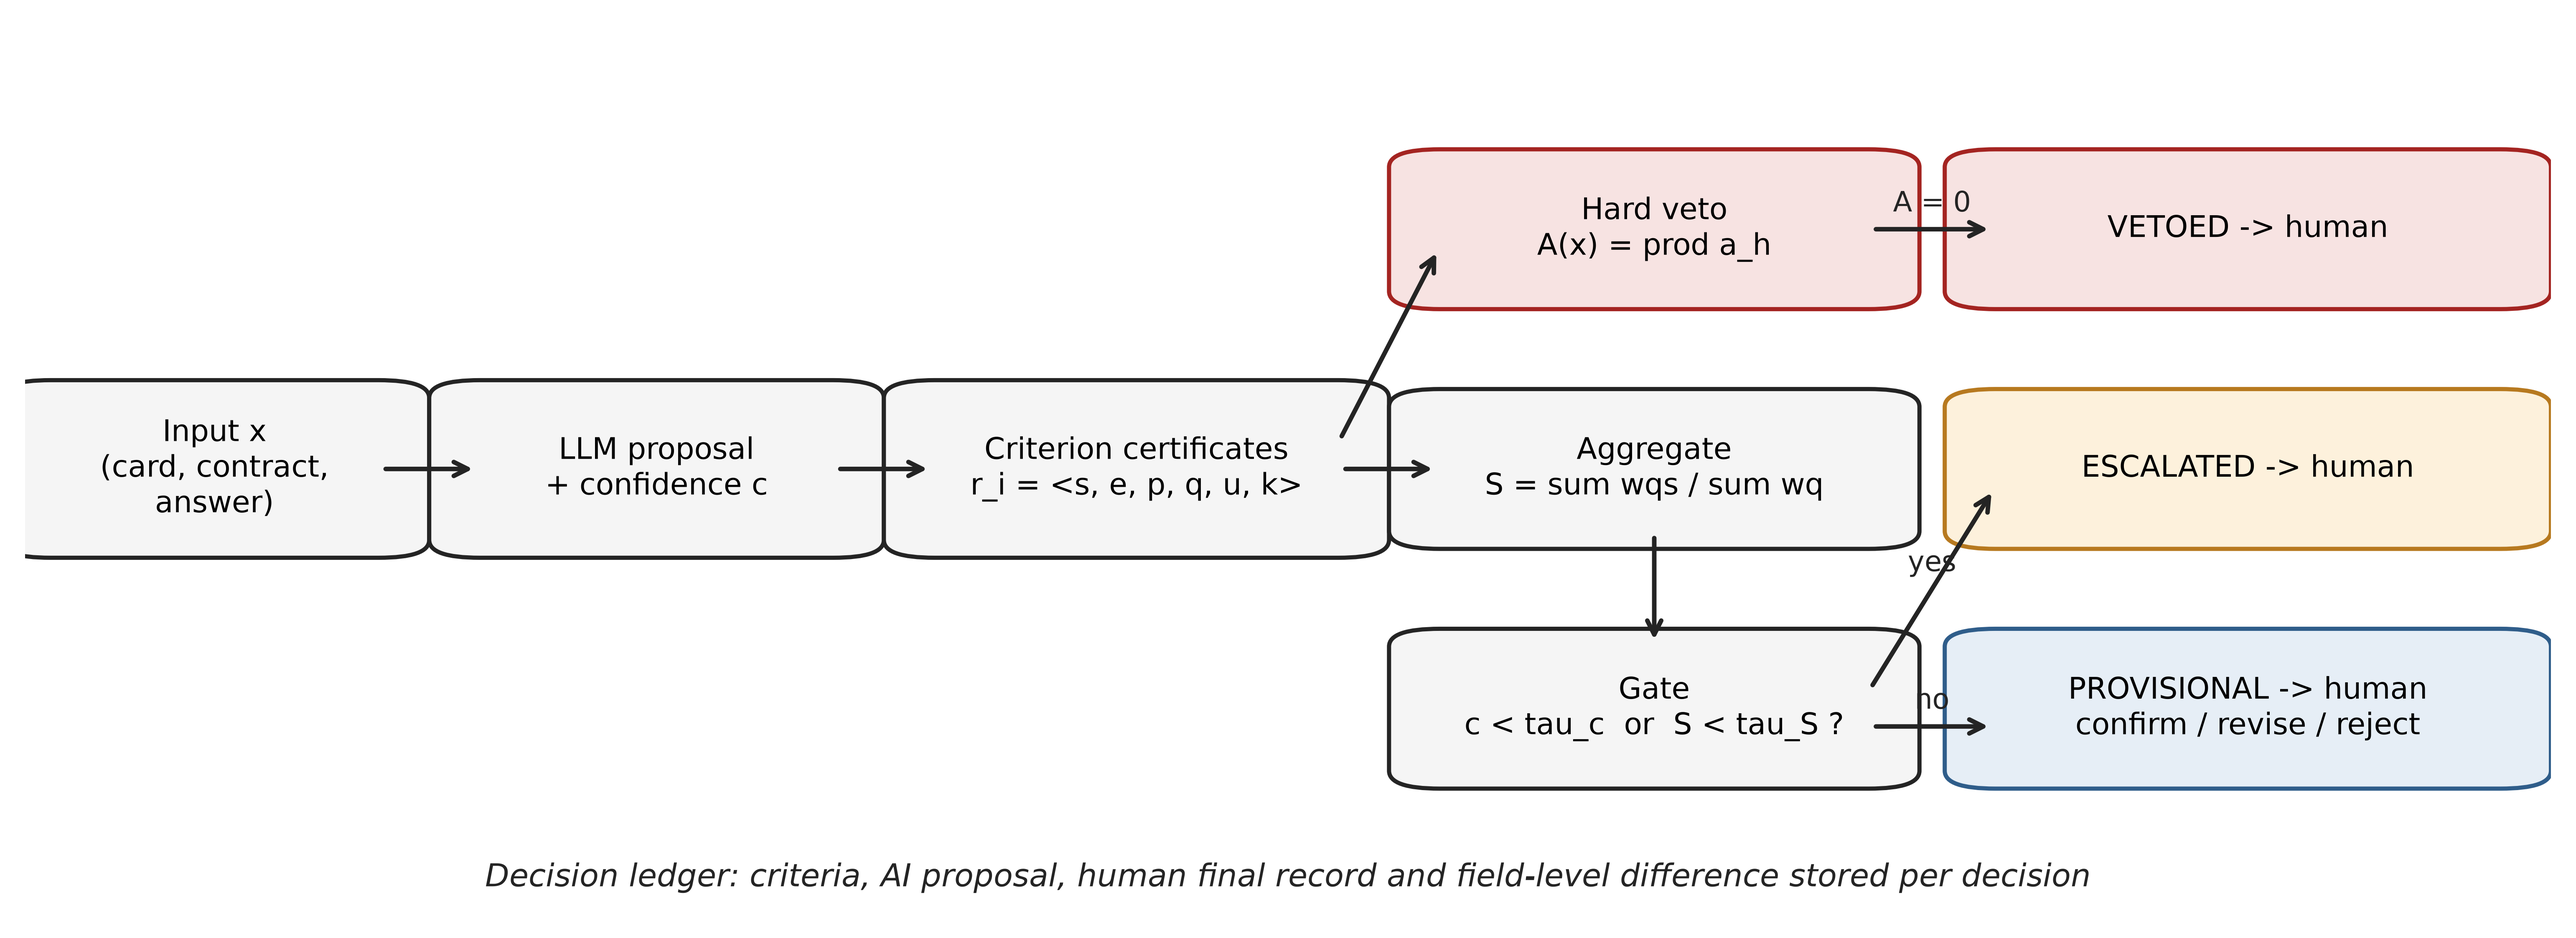
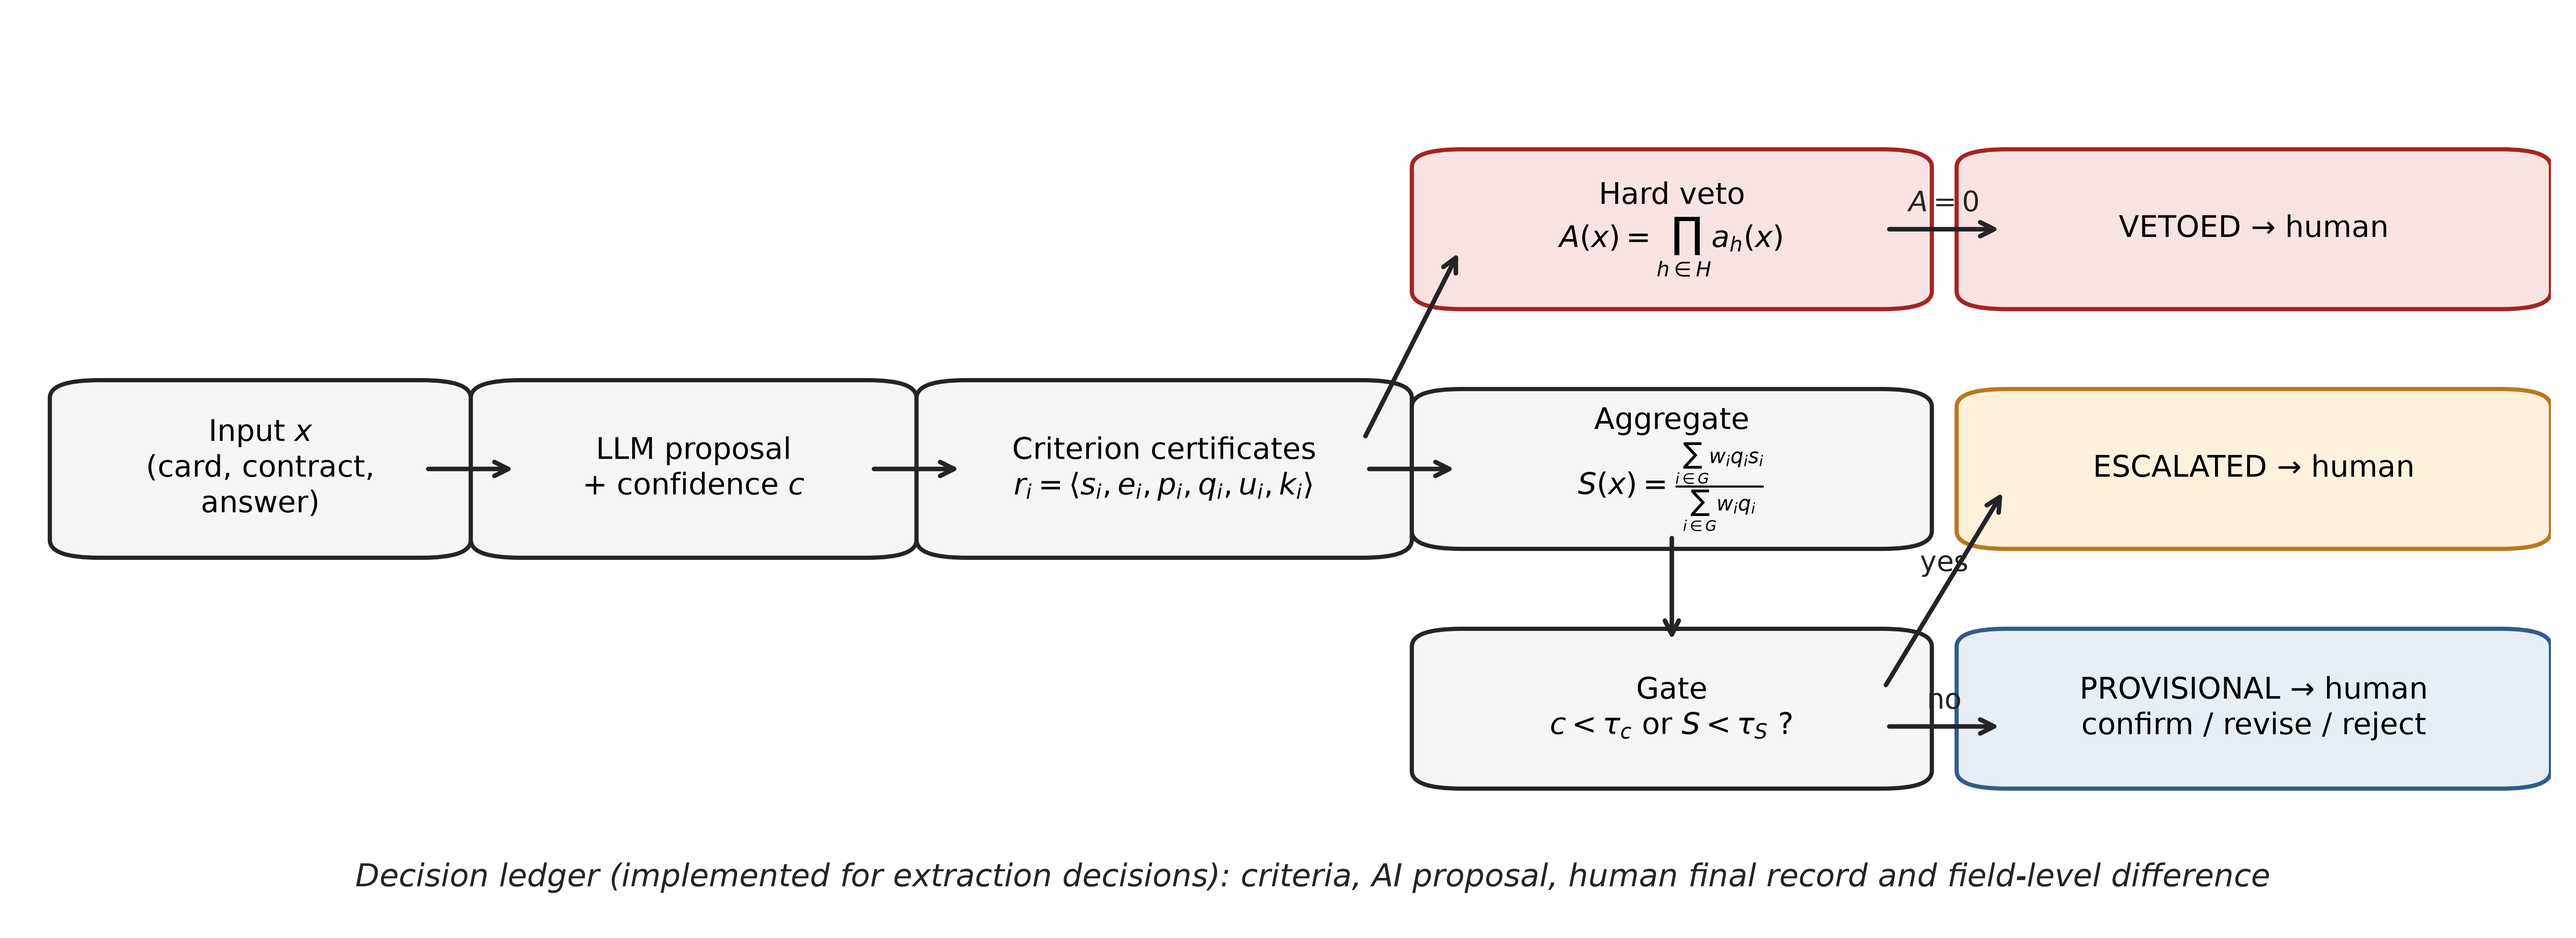
Figures: typeset notation, QWK defined, ledger scope in Figure 1

diff --git a/figures/src/figs.py b/figures/src/figs.py
@@ -26,20 +26,20 @@ def load(f):
 
 
 # Figure 1 — the criteria operator
-fig, ax = plt.subplots(figsize=(13, 4.6)); ax.set_xlim(0, 1); ax.set_ylim(0, 1); ax.axis("off")
-box(ax, 0.01, 0.42, 0.13, 0.16, "Input x\n(card, contract,\nanswer)")
-box(ax, 0.18, 0.42, 0.14, 0.16, "LLM proposal\n+ confidence c")
-box(ax, 0.36, 0.42, 0.16, 0.16, "Criterion certificates\nr_i = <s, e, p, q, u, k>")
-box(ax, 0.56, 0.70, 0.17, 0.14, "Hard veto\nA(x) = prod a_h", fc="#f7e3e2", ec=RED)
-box(ax, 0.56, 0.43, 0.17, 0.14, "Aggregate\nS = sum wqs / sum wq")
-box(ax, 0.56, 0.16, 0.17, 0.14, "Gate\nc < tau_c  or  S < tau_S ?")
-box(ax, 0.78, 0.70, 0.2, 0.14, "VETOED -> human", fc="#f7e3e2", ec=RED)
-box(ax, 0.78, 0.43, 0.2, 0.14, "ESCALATED -> human", fc="#fdf1dc", ec="#b7791f")
-box(ax, 0.78, 0.16, 0.2, 0.14, "PROVISIONAL -> human\nconfirm / revise / reject", fc="#e6eef6", ec=BLUE)
+fig, ax = plt.subplots(figsize=(13, 4.6)); ax.set_xlim(-0.02, 1.0); ax.set_ylim(0, 1); ax.axis("off")
+box(ax, 0.01, 0.42, 0.13, 0.16, "Input $x$\n(card, contract,\nanswer)")
+box(ax, 0.18, 0.42, 0.14, 0.16, "LLM proposal\n+ confidence $c$")
+box(ax, 0.36, 0.42, 0.16, 0.16, "Criterion certificates\n$r_i=\\langle s_i,e_i,p_i,q_i,u_i,k_i\\rangle$")
+box(ax, 0.56, 0.70, 0.17, 0.14, "Hard veto\n$A(x)=\\prod_{h\\in H}a_h(x)$", fc="#f7e3e2", ec=RED)
+box(ax, 0.56, 0.43, 0.17, 0.14, "Aggregate\n$S(x)=\\frac{\\sum_{i\\in G}w_iq_is_i}{\\sum_{i\\in G}w_iq_i}$")
+box(ax, 0.56, 0.16, 0.17, 0.14, "Gate\n$c<\\tau_c$ or $S<\\tau_S$ ?")
+box(ax, 0.78, 0.70, 0.2, 0.14, "VETOED → human", fc="#f7e3e2", ec=RED)
+box(ax, 0.78, 0.43, 0.2, 0.14, "ESCALATED → human", fc="#fdf1dc", ec="#b7791f")
+box(ax, 0.78, 0.16, 0.2, 0.14, "PROVISIONAL → human\nconfirm / revise / reject", fc="#e6eef6", ec=BLUE)
 arrow(ax, 0.14, 0.5, 0.18, 0.5); arrow(ax, 0.32, 0.5, 0.36, 0.5)
 arrow(ax, 0.52, 0.53, 0.56, 0.75); arrow(ax, 0.52, 0.5, 0.56, 0.5); arrow(ax, 0.645, 0.43, 0.645, 0.30)
-arrow(ax, 0.73, 0.77, 0.78, 0.77, "A = 0"); arrow(ax, 0.73, 0.25, 0.78, 0.48, "yes"); arrow(ax, 0.73, 0.21, 0.78, 0.21, "no")
-ax.text(0.5, 0.03, "Decision ledger: criteria, AI proposal, human final record and field-level difference stored per decision",
+arrow(ax, 0.73, 0.77, 0.78, 0.77, "$A=0$"); arrow(ax, 0.73, 0.25, 0.78, 0.48, "yes"); arrow(ax, 0.73, 0.21, 0.78, 0.21, "no")
+ax.text(0.5, 0.03, "Decision ledger (implemented for extraction decisions): criteria, AI proposal, human final record and field-level difference",
         ha="center", fontsize=9, style="italic", color=DARK)
 fig.savefig(f"{OUT}/Figure1_operator.png", dpi=600, bbox_inches="tight"); plt.close(fig)
 
@@ -65,8 +65,8 @@ ax.plot(taus, [100 * sum(esc(x, t) for x in d) / len(d) for t in taus], color=RE
         label=f"Defective documents routed to a human (n={len(d)})")
 ax.plot(taus, [100 * sum(esc(x, t) for x in c) / len(c) for t in taus], color=BLUE, lw=2, ls="--",
         label=f"Clean documents routed to a human (n={len(c)})")
-ax.axvline(0.9, color=DARK, lw=0.8, ls=":"); ax.text(0.905, 50, "production tau_S = 0.9", fontsize=8)
-ax.set_xlabel("Escalation threshold tau_S"); ax.set_ylabel("%"); ax.set_ylim(-3, 105)
+ax.axvline(0.9, color=DARK, lw=0.8, ls=":"); ax.text(0.905, 50, "Production $\\tau_S=0.9$", fontsize=8)
+ax.set_xlabel("Escalation threshold $\\tau_S$"); ax.set_ylabel("%"); ax.set_ylim(-3, 105)
 ax.legend(frameon=False, fontsize=8, loc="upper left")
 fig.savefig(f"{OUT}/Figure3_threshold.png", dpi=600, bbox_inches="tight"); plt.close(fig)
 
@@ -136,7 +136,7 @@ for i, (h, big, small) in enumerate(cols):
     ax.text(x + 0.012, 0.66, h, fontsize=13, weight="bold", color=RED)
     ax.text(x + 0.012, 0.47, big, fontsize=19, weight="bold", color=DARK)
     ax.text(x + 0.012, 0.20, small, fontsize=10, color=DARK, va="bottom")
-ax.text(0.03, 0.04, "Astra, International Information Technology University, Almaty  |  design-science study, 2026",
+ax.text(0.03, 0.04, "QWK: quadratic weighted kappa  |  Astra, International Information Technology University, Almaty  |  design-science study, 2026",
         fontsize=10, color="#595959")
 fig.savefig(f"{OUT}/GraphicalAbstract.png", dpi=200); plt.close(fig)
 from PIL import Image; Image.open(f"{OUT}/GraphicalAbstract.png").convert("RGB").save(f"{OUT}/GraphicalAbstract.png")
